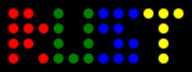
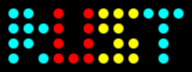
change colors on Rust example

diff --git a/tests/pngs.rs b/tests/pngs.rs
@@ -103,7 +103,7 @@ fn build_led2d1_frame() -> Led12x4Frame {
     let font_variant = Led2dFont::Font3x4Trim;
     let font = font_variant.to_font();
     let spacing_reduction = font_variant.spacing_reduction();
-    let colors = [colors::RED, colors::GREEN, colors::BLUE, colors::YELLOW];
+    let colors = [colors::CYAN, colors::RED, colors::YELLOW];
 
     render_text_to_frame(&mut frame, &font, "Rust", &colors, spacing_reduction)
         .expect("text render must succeed");

diff --git a/src/led2d.rs b/src/led2d.rs
@@ -56,7 +56,7 @@
 //!     let led12x4 = Led12x4::new(p.PIN_3, p.PIO0, p.DMA_CH0, spawner)?;
 //!
 //!     // Write text to the display with cycling colors.
-//!     let colors = [colors::RED, colors::GREEN, colors::BLUE];
+//!     let colors = [colors::CYAN, colors::RED, colors::YELLOW];
 //!     led12x4.write_text("Rust", &colors).await?; // Colors cycle as needed.
 //!
 //!     future::pending().await // run forever

diff --git a/examples/led2d1.rs b/examples/led2d1.rs
@@ -33,7 +33,7 @@ async fn inner_main(spawner: Spawner) -> Result<Infallible> {
 
     let led12x4 = Led12x4::new(p.PIN_3, p.PIO0, p.DMA_CH0, spawner)?;
 
-    let colors = [colors::RED, colors::GREEN, colors::BLUE, colors::YELLOW];
+    let colors = [colors::CYAN, colors::RED, colors::YELLOW];
     led12x4.write_text("Rust", &colors).await?;
 
     future::pending().await // run forever
